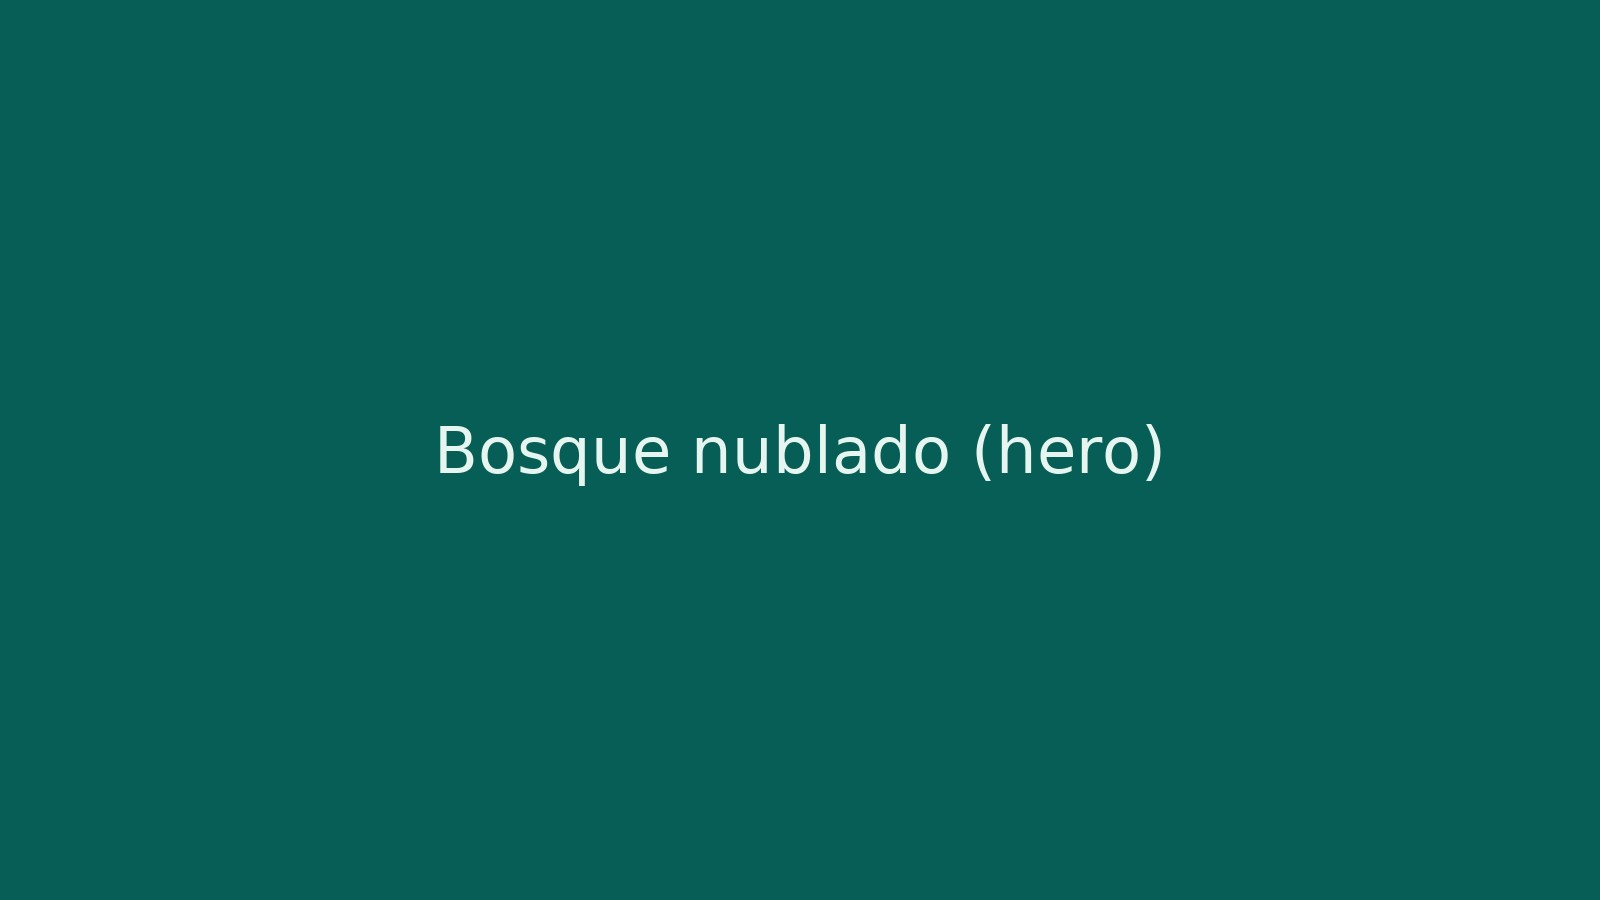
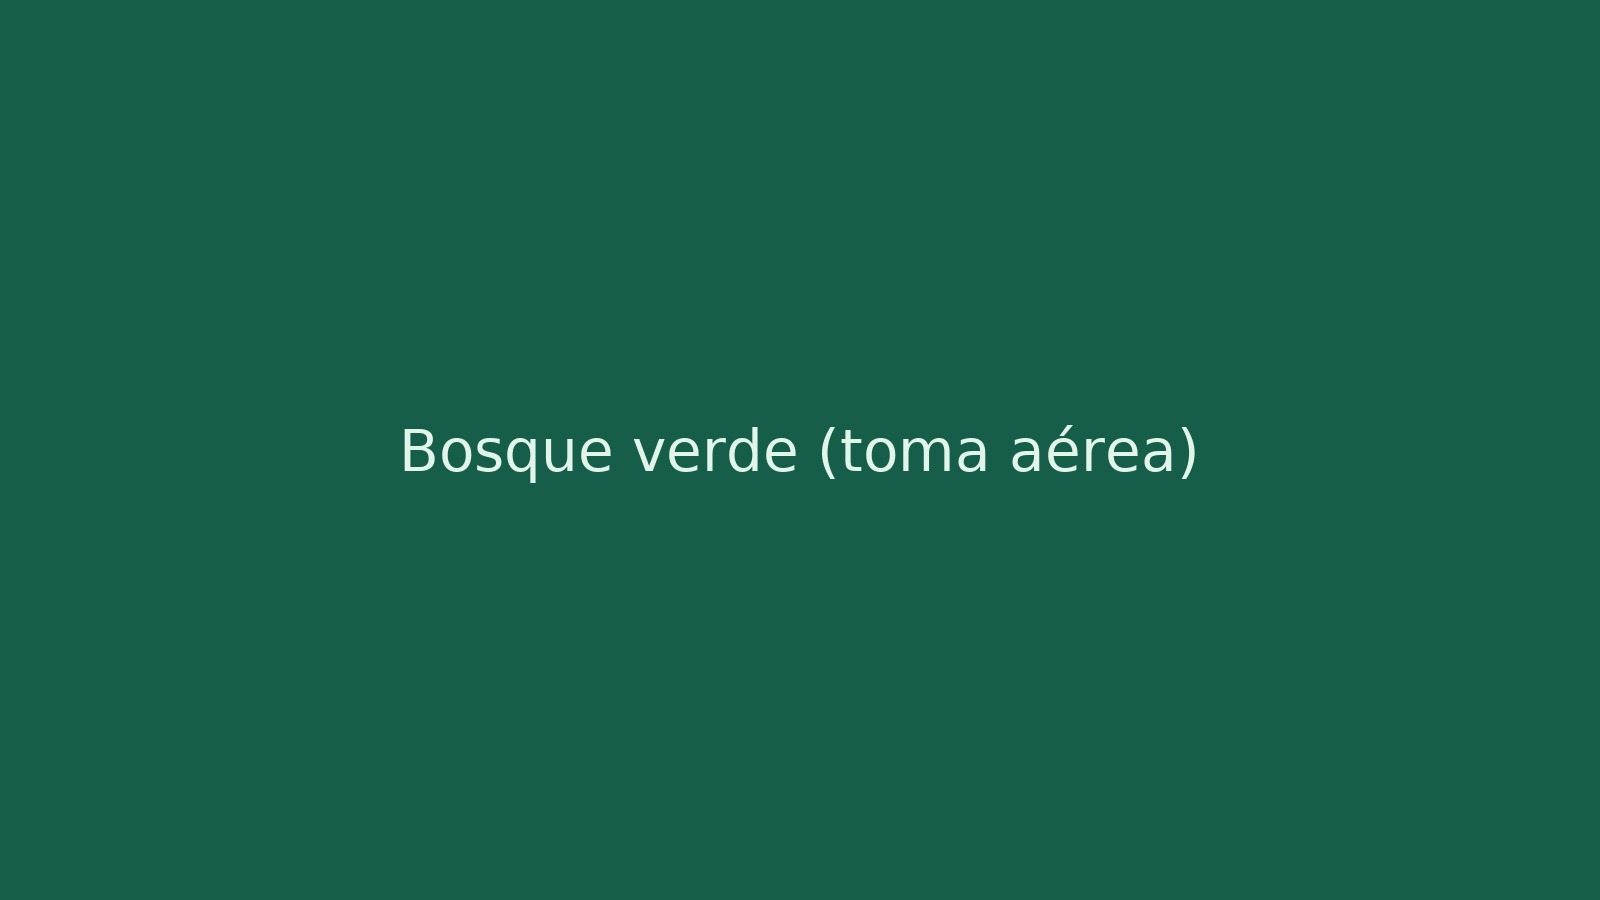
Add files via upload

Changed region(s): [[0.25, 0.4667, 0.75, 0.5289]]

diff --git a/index.html b/index.html
@@ -19,7 +19,8 @@
         <img src="assets/logo.png" alt="Metabosques" class="logo">
         <span class="brand-name">Metabosques</span>
       </div>
-      <nav class="main-nav" id="nav"><a href="https://wa.me/573007925238?text=Hola%20Metabosques%2C%20quisiera%20informaci%C3%B3n" target="_blank" rel="noopener">WhatsApp</a>
+      <nav class="main-nav" id="nav">
+        <a href="https://wa.me/573007925238?text=Hola%20Metabosques%2C%20quisiera%20informaci%C3%B3n" target="_blank" rel="noopener">WhatsApp</a>
         <a href="#inicio">Inicio</a>
         <a href="#nosotros">Nosotros</a>
         <a href="#servicios">Servicios</a>
@@ -33,25 +34,28 @@
   </header>
 
   <main>
+    <!-- HERO -->
     <section id="inicio" class="hero">
       <div class="overlay"></div>
       <div class="container hero-content">
         <h1>Regeneramos ecosistemas.<br>Protegemos biodiversidad.<br>Conectamos naturaleza y territorio.</h1>
         <p class="lead">Soluciones integrales para restauración ecológica, compensaciones y manejo forestal con rigor técnico y enfoque territorial.</p>
-        <div class="cta-row"><a href="https://wa.me/573007925238?text=Hola%20Metabosques%2C%20quisiera%20informaci%C3%B3n" class="btn btn-outline" target="_blank" rel="noopener">Escríbenos por WhatsApp</a>
+        <div class="cta-row">
           <a href="#servicios" class="btn btn-primary">Nuestros servicios</a>
           <a href="#proyectos" class="btn btn-outline">Explora proyectos</a>
+          <a href="https://wa.me/573007925238?text=Hola%20Metabosques%2C%20quisiera%20informaci%C3%B3n" class="btn btn-outline" target="_blank" rel="noopener">Escríbenos por WhatsApp</a>
         </div>
       </div>
-      <img src="assets/hero.jpg" alt="Bosque nublado" class="hero-bg" />
+      <img src="assets/hero.jpg" alt="Bosque verde (toma aérea)" class="hero-bg" />
     </section>
 
+    <!-- NOSOTROS -->
     <section id="nosotros" class="section">
       <div class="container grid-2">
         <div>
           <h2>Nosotros</h2>
-          <p>Metabosques es una empresa ambiental colombiana con más de 15 años de experiencia acumulada en restauración ecológica, aprovechamientos forestales sostenibles, compensaciones bióticas y consultoría ambiental. Trabajamos con empresas, entidades públicas y comunidades para implementar soluciones basadas en ciencia, normativa vigente y participación local.</p>
-          <p>Bajo el liderazgo de <strong>Armith Moreno Montoya</strong>, ingeniero ambiental, estructuramos e implementamos proyectos medibles, trazables y sostenibles en diversos ecosistemas del país.</p>
+          <p>Metabosques es una empresa ambiental colombiana con experiencia en restauración ecológica, aprovechamientos forestales sostenibles, compensaciones bióticas y consultoría ambiental. Trabajamos con empresas, entidades públicas y comunidades para implementar soluciones basadas en ciencia, normativa vigente y participación local.</p>
+          <p>Contamos con un equipo técnico multidisciplinario que estructura e implementa proyectos medibles, trazables y sostenibles en diversos ecosistemas del país.</p>
           <div class="kpis">
             <div class="kpi"><span class="kpi-number" data-count="2500">0</span><span class="kpi-unit">ha</span><p>restauradas</p></div>
             <div class="kpi"><span class="kpi-number" data-count="120000">0</span><span class="kpi-unit">+</span><p>árboles sembrados</p></div>
@@ -60,11 +64,12 @@
           </div>
         </div>
         <div class="card photo">
-          <img src="assets/about.jpg" alt="Restauración ecológica en campo">
+          <img src="assets/about.jpg" alt="Equipo comunitario en campo">
         </div>
       </div>
     </section>
 
+    <!-- SERVICIOS -->
     <section id="servicios" class="section alt">
       <div class="container">
         <h2>Servicios</h2>
@@ -79,7 +84,7 @@
           </article>
           <article class="service-card">
             <h3>Consultoría Ambiental</h3>
-            <p>Estudios de impacto, planes de manejo, monitoreos de fauna y flora, SIG, y acompañamiento en licencias y permisos ambientales.</p>
+           <p>Estudios de impacto, planes de manejo, monitoreos de fauna y flora, SIG, y acompañamiento en licencias y permisos ambientales.</p>
           </article>
           <article class="service-card">
             <h3>Mantenimiento y Obras Ambientales</h3>
@@ -93,13 +98,14 @@
       </div>
     </section>
 
+    <!-- PROYECTOS -->
     <section id="proyectos" class="section">
       <div class="container">
         <h2>Explora proyectos</h2>
         <p class="section-lead">Descubre proyectos de restauración y compensación ambiental en diferentes regiones y ecosistemas.</p>
         <div class="projects-grid">
           <article class="project-card">
-            <img src="assets/proj1.jpg" alt="Río Magdalena - restauración riparia">
+            <img src="assets/proj1.jpg" alt="Siembra comunitaria (ribereña)">
             <div class="project-body">
               <h4>Conectividad Ribereña</h4>
               <p>Restauración de corredores ribereños y monitoreo de biodiversidad asociada.</p>
@@ -107,7 +113,7 @@
             </div>
           </article>
           <article class="project-card">
-            <img src="assets/proj2.jpg" alt="Revegetalización de taludes">
+            <img src="assets/proj2.jpg" alt="Vivero con follaje">
             <div class="project-body">
               <h4>Revegetalización de taludes</h4>
               <p>Estabilización biotécnica con especies nativas y control de erosión.</p>
@@ -115,7 +121,7 @@
             </div>
           </article>
           <article class="project-card">
-            <img src="assets/proj3.jpg" alt="Restauración altoandina">
+            <img src="assets/proj3.jpg" alt="Monitoreo de biodiversidad">
             <div class="project-body">
               <h4>Núcleos altoandinos</h4>
               <p>Enriquecimiento y control de especies invasoras en áreas protegidas.</p>
@@ -129,6 +135,7 @@
       </div>
     </section>
 
+    <!-- ALIANZAS -->
     <section id="alianzas" class="section alt">
       <div class="container">
         <h2>Alianzas y certificaciones</h2>
@@ -141,6 +148,7 @@
       </div>
     </section>
 
+    <!-- RECURSOS -->
     <section id="recursos" class="section">
       <div class="container grid-2">
         <div>
@@ -163,6 +171,7 @@
       </div>
     </section>
 
+    <!-- CONTACTO -->
     <section id="contacto" class="section alt">
       <div class="container grid-2">
         <div>
@@ -170,16 +179,21 @@
           <p>¿Eres una empresa con obligaciones ambientales? ¿Tienes un predio para restauración o conservación? Conversemos.</p>
           <ul class="contact-list">
             <li>📍 Medellín, Colombia</li>
-            <li>📞 +57 300 000 0000</li>
-            <li>✉ contacto@metabosques.com</li>
+            <li>📞 +57 300 792 5238</li>
+            <li>✉ amoreno@metabosques.com</li>
           </ul>
         </div>
         <form class="contact-form" action="https://formsubmit.co/amoreno@metabosques.com" method="POST">
-          <input type="text" placeholder="Nombre" required>
-          <input type="email" placeholder="Correo" required>
-          <input type="tel" placeholder="Teléfono">
-          <textarea rows="5" placeholder="Cuéntanos sobre tu proyecto" required></textarea>
-          <input type="hidden" name="_subject" value="Nuevo mensaje desde metabosques.com"><input type="hidden" name="_template" value="box"><input type="hidden" name="_captcha" value="false"><input type="hidden" name="_next" value="https://metabosques.com/gracias.html"><input type="text" name="_honey" style="display:none"><button class="btn btn-primary" type="submit">Enviar</button>
+          <input type="text" name="nombre" placeholder="Nombre" required>
+          <input type="email" name="email" placeholder="Correo" required>
+          <input type="tel" name="telefono" placeholder="Teléfono">
+          <textarea rows="5" name="mensaje" placeholder="Cuéntanos sobre tu proyecto" required></textarea>
+          <input type="hidden" name="_subject" value="Nuevo mensaje desde metabosques.com">
+          <input type="hidden" name="_template" value="box">
+          <input type="hidden" name="_captcha" value="false">
+          <input type="hidden" name="_next" value="https://metabosques.com/gracias.html">
+          <input type="text" name="_honey" style="display:none">
+          <button class="btn btn-primary" type="submit">Enviar</button>
         </form>
       </div>
     </section>
@@ -195,12 +209,12 @@
     </div>
   </footer>
 
-  <script src="script.js"></script>
-
+  <!-- WhatsApp floating button -->
   <a href="https://wa.me/573007925238?text=Hola%20Metabosques%2C%20quiero%20informaci%C3%B3n%20sobre%20sus%20servicios."
      class="wa-float" aria-label="Chat por WhatsApp" target="_blank" rel="noopener">
     <img src="assets/wa.svg" alt="WhatsApp">
   </a>
 
+  <script src="script.js"></script>
 </body>
 </html>

diff --git a/styles.css b/styles.css
@@ -68,7 +68,6 @@ html,body{margin:0;padding:0;font-family:Inter,system-ui,-apple-system,Segoe UI,
 .footer-nav a{color:#d6ece1;margin-left:12px;text-decoration:none}
 .center{text-align:center;margin-top:18px}
 
-
 /* WhatsApp floating button */
 .wa-float{
   position:fixed; right:18px; bottom:18px;
@@ -79,6 +78,5 @@ html,body{margin:0;padding:0;font-family:Inter,system-ui,-apple-system,Segoe UI,
 .wa-float img{width:28px; height:28px; filter:brightness(0) invert(1)}
 .wa-float:hover{transform:translateY(-2px); transition:.2s}
 
-
-/* Header WhatsApp link emphasis */
+/* Emphasis for WA link in header */
 .main-nav a[href*="wa.me"]{font-weight:700}
